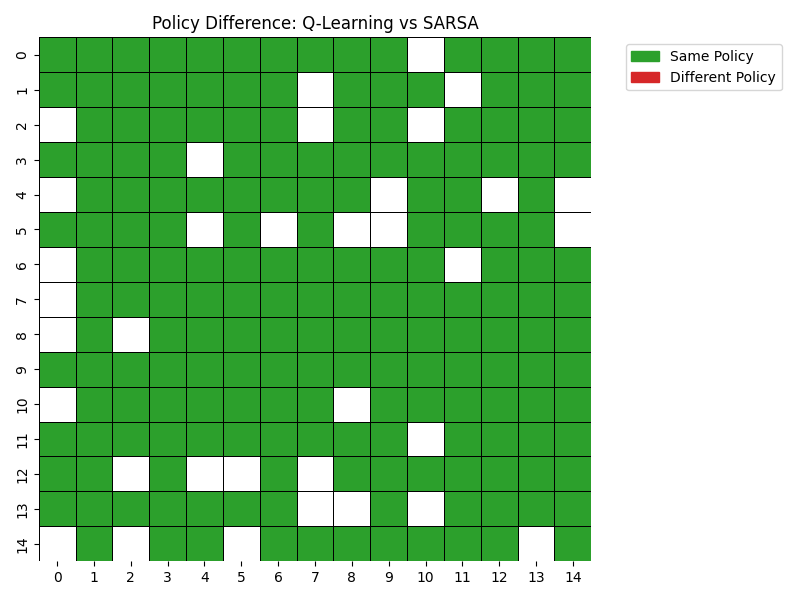
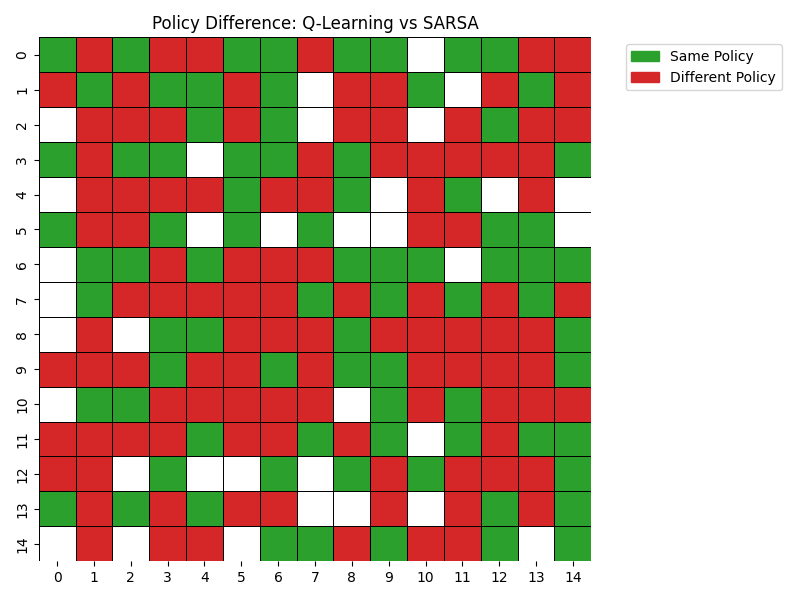
docs: add generated value heatmaps, transfer learning curves, and final visual outputs

diff --git a/experiments/analysis.py b/experiments/analysis.py
@@ -1,9 +1,11 @@
 import sys
 import os
 import numpy as np
+import pandas as pd
 import matplotlib.pyplot as plt
 import seaborn as sns
 from matplotlib.colors import ListedColormap
+import glob
 
 # اضافه کردن مسیر ریشه پروژه
 sys.path.append(os.path.dirname(os.path.dirname(os.path.abspath(__file__))))
@@ -11,44 +13,35 @@ sys.path.append(os.path.dirname(os.path.dirname(os.path.abspath(__file__))))
 from environments.maze import DynamicMazeEnv
 from agents.q_learning import QLearningAgent
 from agents.sarsa_lambda import SarsaLambdaAgent
+from agents.value_iteration import ValueIterationAgent
 
-# ساخت پوشه استاندارد برای ذخیره عکس نمودارها
 os.makedirs('results/figures', exist_ok=True)
 
 def plot_visitation_heatmap(env, agent, episodes=50, filename="results/figures/visitation_heatmap.png"):
-    """رسم نقشه حرارتی از تعداد دفعات بازدید عامل از هر خانه و ذخیره آن"""
     visits = np.zeros((env.grid_size, env.grid_size))
-    
     for ep in range(episodes):
         state = env.reset()
         visits[state[0], state[1]] += 1
         for step in range(200):
             q_values = [agent.get_q(state, a) for a in range(4)]
-            max_q = max(q_values)
-            best_actions = [a for a in range(4) if q_values[a] == max_q]
-            action = best_actions[0]
-            
+            action = np.argmax(q_values) if any(q_values) else 0
             next_state, reward, done, _ = env.step(action)
             visits[next_state[0], next_state[1]] += 1
             state = next_state
-            if done:
-                break
+            if done: break
                 
     mask = np.zeros_like(visits, dtype=bool)
     for r in range(env.grid_size):
         for c in range(env.grid_size):
-            if env.grid[r, c] == env.WALL:
-                mask[r, c] = True
+            if env.grid[r, c] == env.WALL: mask[r, c] = True
                 
     plt.figure(figsize=(8, 6))
     sns.heatmap(visits, mask=mask, cmap='YlOrRd', annot=False)
     plt.title("Q-Learning: State Visitation Heatmap")
     plt.savefig(filename)
-    print(f"Heatmap saved to {filename}")
     plt.close()
 
 def plot_policy_difference(env, q_table1, q_table2, filename="results/figures/policy_difference.png"):
-    """مقایسه سیاست دو عامل مختلف و ذخیره تصویر آن"""
     diff_grid = np.zeros((env.grid_size, env.grid_size))
     mask = np.zeros((env.grid_size, env.grid_size), dtype=bool)
     
@@ -57,17 +50,14 @@ def plot_policy_difference(env, q_table1, q_table2, filename="results/figures/po
             if env.grid[r, c] == env.WALL:
                 mask[r, c] = True
                 continue
-                
-            q1 = [q_table1.get(((r, c), a), 0.0) for a in range(4)]
+            
+            q1 = [q_table1.get(((r, c, 0, 0), a), 0.0) for a in range(4)]
             a1 = np.argmax(q1) if any(q1) else 0
             
-            q2 = [q_table2.get(((r, c), a), 0.0) for a in range(4)]
+            q2 = [q_table2.get(((r, c, 0, 0), a), 0.0) for a in range(4)]
             a2 = np.argmax(q2) if any(q2) else 0
             
-            if a1 != a2:
-                diff_grid[r, c] = 1
-            else:
-                diff_grid[r, c] = 0
+            diff_grid[r, c] = 0 if a1 == a2 else 1
                 
     plt.figure(figsize=(8, 6))
     cmap = ListedColormap(['#2ca02c', '#d62728'])
@@ -81,23 +71,78 @@ def plot_policy_difference(env, q_table1, q_table2, filename="results/figures/po
     plt.title("Policy Difference: Q-Learning vs SARSA")
     plt.tight_layout()
     plt.savefig(filename)
-    print(f"Policy Difference map saved to {filename}")
     plt.close()
 
+def plot_value_heatmap(env, vi_agent, filename="results/figures/value_heatmap.png"):
+    """رسم نقشه حرارتی ارزشهای محاسبه شده توسط Value Iteration"""
+    v_grid = np.zeros((env.grid_size, env.grid_size))
+    mask = np.zeros((env.grid_size, env.grid_size), dtype=bool)
+    
+    for r in range(env.grid_size):
+        for c in range(env.grid_size):
+            if env.grid[r, c] == env.WALL:
+                mask[r, c] = True
+            else:
+                # گرفتن ارزش برای حالت بدون کلید و مانع پیشفرض
+                v_grid[r, c] = vi_agent.V.get((r, c, 0, 0), 0.0)
+                
+    plt.figure(figsize=(8, 6))
+    sns.heatmap(v_grid, mask=mask, cmap='viridis', annot=False)
+    plt.title("Value Heatmap (Value Iteration)")
+    plt.savefig(filename)
+    plt.close()
+
+def plot_transfer_learning_curves():
+    """رسم نمودارهای مقایسه سناریوهای انتقال یادگیری از روی فایلهای CSV"""
+    for env_type in ['Similar', 'Different']:
+        plt.figure(figsize=(10, 6))
+        
+        # پیدا کردن فایلهای مربوط به این نوع محیط
+        files = glob.glob(f"results/raw_data/transfer_{env_type}_*.csv")
+        if not files:
+            continue
+            
+        for file in files:
+            # استخراج نام سناریو از اسم فایل
+            scenario_name = os.path.basename(file).replace(f"transfer_{env_type}_", "").replace(".csv", "")
+            
+            df = pd.read_csv(file)
+            # میانگین متحرک برای صاف کردن نمودار (Smoothing)
+            smoothed_rewards = df['Reward'].rolling(window=15, min_periods=1).mean()
+            plt.plot(df['Episode'], smoothed_rewards, label=scenario_name, alpha=0.8)
+            
+        plt.title(f"Transfer Learning Performance: {env_type} Environment")
+        plt.xlabel("Episode")
+        plt.ylabel("Moving Average of Reward")
+        plt.legend(loc='lower right', fontsize='small')
+        plt.grid(True, linestyle='--', alpha=0.6)
+        plt.tight_layout()
+        plt.savefig(f"results/figures/Transfer_Curves_{env_type}.png")
+        plt.close()
+
 def main():
-    print("Training agents for visual analysis...")
+    print("1. Generating algorithmic heatmaps...")
     env = DynamicMazeEnv()
     
     ql_agent = QLearningAgent(env, decay_type='exponential')
-    ql_agent.train(episodes=500)
-    
+    ql_agent.train(episodes=400)
     plot_visitation_heatmap(env, ql_agent)
     
     sarsa_agent = SarsaLambdaAgent(env, lmbda=0.9, trace_type='replacing')
-    sarsa_agent.train(episodes=500)
-    
+    sarsa_agent.train(episodes=400)
     plot_policy_difference(env, ql_agent.Q, sarsa_agent.Q)
-    print("Analysis complete. Check the 'results/figures' folder for images.")
+    
+    vi_agent = ValueIterationAgent(env)
+    for method in ['train', 'solve', 'value_iteration', 'run', 'optimize']:
+        if hasattr(vi_agent, method):
+            getattr(vi_agent, method)()
+            break
+    plot_value_heatmap(env, vi_agent)
+    
+    print("2. Generating Transfer Learning curves from CSV logs...")
+    plot_transfer_learning_curves()
+    
+    print("Analysis complete. ALL required figures are in 'results/figures/' folder.")
 
 if __name__ == "__main__":
     main()
